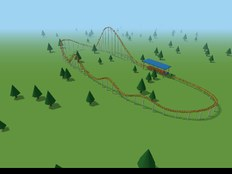
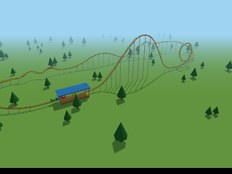
Add a vertical loop, zero-g roll and double corkscrew to the roller coaster
Rework the track frames so the train can go upside down, raise the lift
hill, and show the G-force felt in the seat.

Claude-Session: https://claude.ai/code/session_01VB8YHhjihmTT9ZA4ydHuYc

diff --git a/prototypes/playground/roller-coaster/index.html b/prototypes/playground/roller-coaster/index.html
@@ -84,8 +84,9 @@
 <div class="hud" aria-hidden="true">
   <div><span id="speed">0</span> km/h</div>
   <div><span id="height">0</span> m up</div>
+  <div><span id="gforce">1.0</span> G</div>
 </div>
-<div class="hint" id="hint">All aboard!<small>press Ride &middot; drag to look around</small></div>
+<div class="hint" id="hint">All aboard!<small>loops, rolls &amp; a corkscrew &middot; press Ride &middot; drag to look around</small></div>
 <div class="toolbar">
   <button id="ride" type="button">Ride!</button>
   <button id="view" type="button">View: Front seat</button>
@@ -113,6 +114,7 @@ const rideBtn = document.getElementById('ride');
 const viewBtn = document.getElementById('view');
 const speedEl = document.getElementById('speed');
 const heightEl = document.getElementById('height');
+const gEl = document.getElementById('gforce');
 
 const G = 9.81;
 const CHAIN_SPEED = 4.5;     // m/s up the lift hill
@@ -155,16 +157,60 @@ scene.add(ground);
 
 /* ---------- the track ---------- */
 
-// Starts in the station, runs up the lift hill, then the fun part.
+// A vertical loop shaped like a teardrop: a wide curve at the bottom
+// (gentler on riders at full speed) tightening to a small one at the
+// top. It is traced by turning through 360 degrees while the turning
+// radius changes, and drifts sideways (z) by `shift` so the exit runs
+// beside the entry instead of into it.
+function loopPoints(x0, y0, rBottom, rTop, z0, shift, steps) {
+  const pts = [];
+  let x = x0, y = y0;
+  const sub = 40;
+  for (let k = 0; k <= steps; k++) {
+    if (k) {
+      for (let n = 0; n < sub; n++) {
+        const a = ((k - 1) + (n + 0.5) / sub) / steps * Math.PI * 2;
+        const r = rTop + (rBottom - rTop) * Math.pow((1 + Math.cos(a)) / 2, 1.5);
+        const d = r * (Math.PI * 2 / steps / sub);
+        x -= Math.cos(a) * d;
+        y += Math.sin(a) * d;
+      }
+    }
+    pts.push([x, y, z0 + shift * k / steps]);
+  }
+  return pts;
+}
+
+const LOOP = loopPoints(-80, 2, 14, 5, 0, 5, 24);
+
+// Starts in the station, then: lift hill, big drop, vertical loop,
+// banked turnaround, zero-g roll, camelback hill, double corkscrew,
+// and a banked turn home.
 const CONTROL = [
-  [ 14, 2, 0], [  0, 2, 0], [-10, 3, 0], [-20, 10, 0], [-30, 19, 0],
-  [-38, 24, 0], [-45, 23, 0], [-52, 14, 1], [-58, 4, 3],
-  [-68, 5, 10], [-72, 11, 22], [-66, 13, 32], [-54, 8, 37],
-  [-42, 3.5, 38], [-31, 12, 38], [-20, 4, 38], [-8, 3, 38],
-  [  4, 8, 38], [ 14, 3, 37], [ 25, 6.5, 35], [ 36, 3.5, 31],
-  [ 46, 4.5, 22], [ 48, 4, 11], [ 42, 2.5, 3], [ 30, 2, 0]
+  [ 14, 2, 0], [  0, 2, 0], [-8, 3, 0], [-18, 12, 0], [-28, 24, 0],
+  [-36, 31, 0], [-42, 32, 0], [-48, 28.5, 0], [-55, 18, 0], [-61, 7, 0],
+  [-67, 2.6, 0], [-74, 2, 0],
+  ...LOOP,
+  [-102, 2, 5.5], [-110, 4, 11], [-114, 8, 21], [-109, 11, 31], [-97, 11.5, 36],
+  // zero-g roll (straight, so the roll is clean)
+  [-84, 11.5, 36], [-74, 11.5, 36], [-64, 11.3, 36],
+  // drop and camelback hill
+  [-56, 7, 36], [-49, 3.5, 36], [-42, 5.6, 36], [-34, 9.6, 36], [-26, 11, 36],
+  [-18, 9.6, 36], [-10, 5.6, 36], [-3, 3.5, 36],
+  // double corkscrew
+  [4, 3.5, 36], [16, 4, 36], [28, 4, 36], [40, 3.5, 36],
+  [ 49, 4.5, 31], [ 53, 6, 21], [ 50, 5, 11], [ 42, 3, 4], [ 30, 2, 0]
 ].map(p => new THREE.Vector3(p[0], p[1], p[2]));
 
+// Heartline rolls: the track twists around a line at rider height,
+// so riders spin in place instead of being swung around.
+const ROLLS = [
+  { from: [-84, 11.5, 36], to: [-64, 11.3, 36], turns: 1 },
+  { from: [4, 3.5, 36], to: [40, 3.5, 36], turns: -2 }
+];
+const HEARTLINE = 1.2;
+
+const LOOP_FIRST = new THREE.Vector3(...LOOP[0]), LOOP_LAST = new THREE.Vector3(...LOOP[LOOP.length - 1]);
 const curve = new THREE.CatmullRomCurve3(CONTROL, true, 'centripetal');
 const LENGTH = curve.getLength();
 const STEP = 0.1;
@@ -172,37 +218,125 @@ const N = Math.ceil(LENGTH / STEP);
 
 const pos = [], fwd = [], up = [], right = [];
 {
+  const worldUp = new THREE.Vector3(0, 1, 0);
   for (let i = 0; i < N; i++) {
     const t = i / N;
     pos.push(curve.getPointAt(t));
-    fwd.push(curve.getTangentAt(t).normalize());
   }
-  // Signed horizontal turn rate (radians per metre), smoothed, becomes bank.
+
+  // Soften valleys and crests by smoothing the height a little, except
+  // through the vertical loop, which is already shaped with care.
+  const nearestIdx = p => {
+    let best = 0, bd = Infinity;
+    for (let i = 0; i < N; i++) { const d = pos[i].distanceToSquared(p); if (d < bd) { bd = d; best = i; } }
+    return best;
+  };
+  const loopA = nearestIdx(LOOP_FIRST), loopB = nearestIdx(LOOP_LAST);
+  const SW = 35;
+  for (let pass = 0; pass < 2; pass++) {
+    const ys = pos.map(p => p.y);
+    for (let i = 0; i < N; i++) {
+      if (i > loopA - SW && i < loopB + SW) continue;
+      let sum = 0;
+      for (let k = -SW; k <= SW; k++) sum += ys[(i + k + N) % N];
+      pos[i].y = sum / (2 * SW + 1);
+    }
+  }
+  for (let i = 0; i < N; i++) fwd.push(new THREE.Vector3().subVectors(pos[(i + 1) % N], pos[(i - 1 + N) % N]).normalize());
+
+  // 1. Rotation-minimising frames (double reflection). These follow the
+  //    track without twisting, so through the loop "up" points at the
+  //    loop's centre and riders end up upside down at the top.
+  const rmf = [new THREE.Vector3().copy(worldUp).addScaledVector(fwd[0], -fwd[0].y).normalize()];
+  const v1 = new THREE.Vector3(), v2 = new THREE.Vector3(), rL = new THREE.Vector3(), tL = new THREE.Vector3();
+  for (let i = 0; i < N - 1; i++) {
+    v1.subVectors(pos[i + 1], pos[i]);
+    const c1 = v1.dot(v1);
+    rL.copy(rmf[i]).addScaledVector(v1, -2 / c1 * v1.dot(rmf[i]));
+    tL.copy(fwd[i]).addScaledVector(v1, -2 / c1 * v1.dot(fwd[i]));
+    v2.subVectors(fwd[i + 1], tL);
+    const c2 = v2.dot(v2);
+    const r = rL.clone();
+    if (c2 > 1e-12) r.addScaledVector(v2, -2 / c2 * v2.dot(rL));
+    rmf.push(r.normalize());
+  }
+
+  // 2. Where the track is upright and not too steep, we know what "up"
+  //    should be: world up, leaned into the turn. Banking comes from how
+  //    fast the heading changes.
+  const ok = i => Math.abs(fwd[i].y) < 0.8 && rmf[i].y > 0;
   const turn = new Float32Array(N);
   for (let i = 0; i < N; i++) {
-    const a = fwd[(i - 5 + N) % N], b = fwd[(i + 5) % N];
-    const ha = Math.atan2(a.x, a.z), hb = Math.atan2(b.x, b.z);
-    let d = hb - ha;
+    const ia = (i - 5 + N) % N, ib = (i + 5) % N;
+    if (!ok(ia) || !ok(ib)) continue;
+    let d = Math.atan2(fwd[ib].x, fwd[ib].z) - Math.atan2(fwd[ia].x, fwd[ia].z);
     if (d > Math.PI) d -= 2 * Math.PI;
     if (d < -Math.PI) d += 2 * Math.PI;
     turn[i] = d / (10 * STEP);
   }
-  const bank = new Float32Array(N);
   const W = 60; // smoothing window, in samples
+  const phi = new Float32Array(N), known = new Uint8Array(N);
+  const tmp = new THREE.Vector3(), want = new THREE.Vector3();
   for (let i = 0; i < N; i++) {
+    if (!ok(i)) continue;
     let sum = 0;
     for (let k = -W; k <= W; k++) sum += turn[(i + k + N) % N];
-    bank[i] = THREE.MathUtils.clamp((sum / (2 * W + 1)) * 9, -0.85, 0.85);
+    const bank = THREE.MathUtils.clamp((sum / (2 * W + 1)) * 9, -0.85, 0.85);
+    want.copy(worldUp).addScaledVector(fwd[i], -fwd[i].y).normalize().applyAxisAngle(fwd[i], -bank);
+    // Signed angle from the RMF up to the wanted up, around forward.
+    phi[i] = Math.atan2(fwd[i].dot(tmp.crossVectors(rmf[i], want)), rmf[i].dot(want));
+    known[i] = 1;
   }
-  const worldUp = new THREE.Vector3(0, 1, 0);
+  // 3. Unwrap that correction angle and fill the gaps (the loop, the steep
+  //    drop) by blending between the known ends.
+  let prev = 0; // sample 0 is in the station, so it is known
+  for (let i = 1; i <= N; i++) {
+    const ii = i % N;
+    if (!known[ii]) continue;
+    let target = phi[ii];
+    while (target - phi[prev] > Math.PI) target -= 2 * Math.PI;
+    while (target - phi[prev] < -Math.PI) target += 2 * Math.PI;
+    if (ii !== 0) phi[ii] = target;
+    const gap = i - prev;
+    for (let k = 1; k < gap; k++) phi[(prev + k) % N] = phi[prev] + (target - phi[prev]) * k / gap;
+    prev = ii;
+  }
+
+  // 4. Scripted heartline rolls.
+  const nearest = p => {
+    const q = new THREE.Vector3(...p);
+    let best = 0, bd = Infinity;
+    for (let i = 0; i < N; i++) { const d = pos[i].distanceToSquared(q); if (d < bd) { bd = d; best = i; } }
+    return best;
+  };
+  const roll = new Float32Array(N);
+  for (const r of ROLLS) {
+    const a = nearest(r.from), b = nearest(r.to);
+    for (let i = a; i <= b; i++) {
+      const t = (i - a) / (b - a);
+      roll[i] = r.turns * Math.PI * 2 * t * t * (3 - 2 * t);
+    }
+  }
+
+  const base = [];
   for (let i = 0; i < N; i++) {
-    const f = fwd[i];
-    const r = new THREE.Vector3().crossVectors(f, worldUp).normalize();
-    const u = new THREE.Vector3().crossVectors(r, f).normalize();
-    // Lean into the turn.
-    u.applyAxisAngle(f, -bank[i]);
-    r.crossVectors(f, u).normalize();
-    up.push(u); right.push(r);
+    const u = rmf[i].clone().applyAxisAngle(fwd[i], phi[i]);
+    base.push(u.clone());
+    if (roll[i]) {
+      u.applyAxisAngle(fwd[i], roll[i]);
+      // Keep the heartline fixed: move the track around it.
+      pos[i].addScaledVector(base[i], HEARTLINE).addScaledVector(u, -HEARTLINE);
+    }
+    up.push(u);
+  }
+  // Rolls moved the track, so re-derive forward there and tidy the frames.
+  for (let i = 0; i < N; i++) {
+    if (roll[i] || roll[(i + 1) % N] || roll[(i - 1 + N) % N]) {
+      fwd[i].subVectors(pos[(i + 1) % N], pos[(i - 1 + N) % N]).normalize();
+    }
+    const r = new THREE.Vector3().crossVectors(fwd[i], up[i]).normalize();
+    up[i].crossVectors(r, fwd[i]).normalize();
+    right.push(r);
   }
 }
 
@@ -226,7 +360,7 @@ function newFrame() {
 let crestS = 0;
 {
   let best = -Infinity;
-  for (let i = 0; i < N * 0.4; i++) if (pos[i].y > best) { best = pos[i].y; crestS = i * STEP; }
+  for (let i = 0; i < N * 0.25; i++) if (pos[i].y > best) { best = pos[i].y; crestS = i * STEP; }
 }
 const LIFT_START = 8;
 
@@ -293,7 +427,7 @@ const fr = newFrame();
   for (let s = 3; s < LENGTH; s += 5) {
     frameAt(s, fr);
     const top = tmpA.copy(fr.p).addScaledVector(fr.u, -0.5);
-    if (top.y > 1.2 && !inStation(s)) cols.push(top.clone());
+    if (top.y > 1.2 && fr.u.y > 0.6 && !inStation(s) && clearBelow(top)) cols.push(top.clone());
   }
   const columns = new THREE.InstancedMesh(colGeo, new THREE.MeshStandardMaterial({ color: '#e9e4d8', roughness: 0.7 }), cols.length);
   const m = new THREE.Matrix4();
@@ -304,6 +438,14 @@ const fr = newFrame();
   });
   columns.castShadow = true;
   scene.add(columns);
+}
+// No column if some other piece of track runs underneath this spot.
+function clearBelow(p) {
+  for (let i = 0; i < N; i += 4) {
+    const q = pos[i];
+    if (q.y < p.y - 1.5 && (q.x - p.x) ** 2 + (q.z - p.z) ** 2 < 4) return false;
+  }
+  return true;
 }
 function inStation(s) { return s < 2 || s > LENGTH - 14; }
 
@@ -472,7 +614,7 @@ viewBtn.addEventListener('click', () => {
 });
 
 let lookYaw = 0, lookPitch = 0, dragging = false, lastX = 0, lastY = 0;
-let orbit = 0.6;
+let orbit = -1.2;
 canvas.addEventListener('pointerdown', e => {
   dragging = true; lastX = e.clientX; lastY = e.clientY;
   canvas.classList.add('dragging');
@@ -501,9 +643,18 @@ function updateCamera(dt) {
     lookYaw *= Math.pow(0.25, dt);
     lookPitch *= Math.pow(0.25, dt);
   }
+  // Widen the view with speed so it feels faster.
+  const fov = view === 0 ? 70 + THREE.MathUtils.clamp((v - 10) * 0.9, 0, 18) : 65;
+  if (Math.abs(camera.fov - fov) > 0.05) {
+    camera.fov += (fov - camera.fov) * (1 - Math.pow(0.05, dt));
+    camera.updateProjectionMatrix();
+  }
   if (view === 0) {
     frameAt(s - 0.6, camFr);
     camera.position.copy(camFr.p).addScaledVector(camFr.u, 1.55);
+    // A little rumble once the train is really moving.
+    const sh = state === 'riding' ? Math.max(0, v - 8) * 0.0018 : 0;
+    camera.position.addScaledVector(camFr.r, (Math.random() - 0.5) * sh).addScaledVector(camFr.u, (Math.random() - 0.5) * sh);
     // Look along the track's frame, then add the drag offset.
     m3.makeBasis(camFr.r, camFr.u, camFr.f.clone().negate());
     q.setFromRotationMatrix(m3);
@@ -511,8 +662,11 @@ function updateCamera(dt) {
     qPitch.setFromAxisAngle(new THREE.Vector3(1, 0, 0), lookPitch);
     camera.quaternion.copy(q).multiply(qYaw).multiply(qPitch);
   } else if (view === 1) {
-    frameAt(s - CAR_GAP, camFr);
-    const behind = tmpA.copy(camFr.p).addScaledVector(camFr.f, -9).add(new THREE.Vector3(0, 5, 0));
+    // Ride along the track a little behind the train, so the camera
+    // follows it through the loop instead of cutting across.
+    frameAt(s - CAR_GAP * CARS - 7, camFr);
+    const behind = tmpA.copy(camFr.p).addScaledVector(camFr.u, 3.5);
+    camera.up.lerp(camFr.u, 1 - Math.pow(0.05, dt)).normalize();
     chasePos.lerp(behind, 1 - Math.pow(0.02, dt));
     camera.position.copy(chasePos);
     frameAt(s + 2, camFr);
@@ -521,10 +675,29 @@ function updateCamera(dt) {
     camera.rotateY(lookYaw);
     camera.rotateX(lookPitch);
   } else {
+    camera.up.set(0, 1, 0);
     if (!dragging) orbit += dt * 0.06;
-    camera.position.set(Math.cos(orbit) * 95 - 12, 48, Math.sin(orbit) * 95 + 18);
-    camera.lookAt(-12, 6, 18);
+    camera.position.set(Math.cos(orbit) * 115 - 30, 55, Math.sin(orbit) * 115 + 18);
+    camera.lookAt(-30, 8, 18);
   }
+}
+
+// G-force felt in the seat: the push of the track along "up",
+// counting both gravity and the curve the train is following.
+const gTmp = new THREE.Vector3();
+let gSmooth = 1;
+function gForce() {
+  if (state !== 'riding') return (gSmooth = 1);
+  const i = Math.floor((((s % LENGTH) + LENGTH) % LENGTH) / STEP) % N;
+  // Curvature of the rider's path (the heartline, above the track).
+  const k = 15, ia = (i - k + N) % N, ib = (i + k) % N;
+  gTmp.copy(pos[ia]).addScaledVector(up[ia], HEARTLINE)
+    .addScaledVector(pos[i], -2).addScaledVector(up[i], -2 * HEARTLINE)
+    .add(pos[ib]).addScaledVector(up[ib], HEARTLINE)
+    .divideScalar((k * STEP) ** 2);
+  const g = (v * v * gTmp.dot(up[i]) + G * up[i].y) / G;
+  gSmooth += (g - gSmooth) * 0.15;
+  return gSmooth;
 }
 
 /* ---------- sizing & loop ---------- */
@@ -550,6 +723,7 @@ function frame(now) {
   frameAt(s, fr);
   speedEl.textContent = Math.round(v * 3.6);
   heightEl.textContent = Math.round(fr.p.y);
+  gEl.textContent = gForce().toFixed(1);
   renderer.render(scene, camera);
   requestAnimationFrame(frame);
 }

diff --git a/prototypes/playground/README.md b/prototypes/playground/README.md
@@ -14,4 +14,7 @@ Each folder holds everything its toy needs, so use relative paths. A toy should 
 ## Toys
 
 - **ball-pit/**: a canvas ball pit. Move the pointer into it to push the balls aside, hold the button to dive deeper, and let go to splash. It also has "+ Balls" and "Shake!" buttons. The physics is Verlet integration with a spatial grid for collisions; the tuning constants are near the top of the script.
-- **roller-coaster/**: a small 3D coaster (Three.js, loaded from jsDelivr). Press "Ride!" to board: the train rolls out of the station, gets chain-lifted up a 24 m hill, then drops through banked turns and camelback hills and brakes back into the station. "View" cycles front seat / chase / overview, and dragging looks around. The track is the `CONTROL` point list near the top of the script (a closed Catmull-Rom spline); banking comes from how sharply the track turns, and speed comes from gravity along the slope.
+- **roller-coaster/**: a small 3D coaster (Three.js, loaded from jsDelivr). Press "Ride!" to board: the train is chain-lifted up a 32 m hill, drops at about 85 km/h into a teardrop vertical loop, then runs a banked turnaround, a zero-g roll, a camelback airtime hill and a double corkscrew (four inversions) before braking back into the station. The HUD shows speed, height and the G-force at the rider's seat (about 4.9 G at the bottom of the drop, -1 G over the camelback). "View" cycles front seat / chase / overview, and dragging looks around.
+  - The layout is the `CONTROL` point list (a closed Catmull-Rom spline); `loopPoints()` builds the loop and `ROLLS` lists the heartline rolls.
+  - Track frames are rotation-minimising (so "up" follows the track through the loop), corrected back to world-up-plus-banking wherever the track is upright. Heartline rolls twist the track around a line at rider height.
+  - Heights are lightly smoothed outside the loop to keep valleys and crests from spiking the G-forces; if you edit the layout, keep an eye on the G readout.
